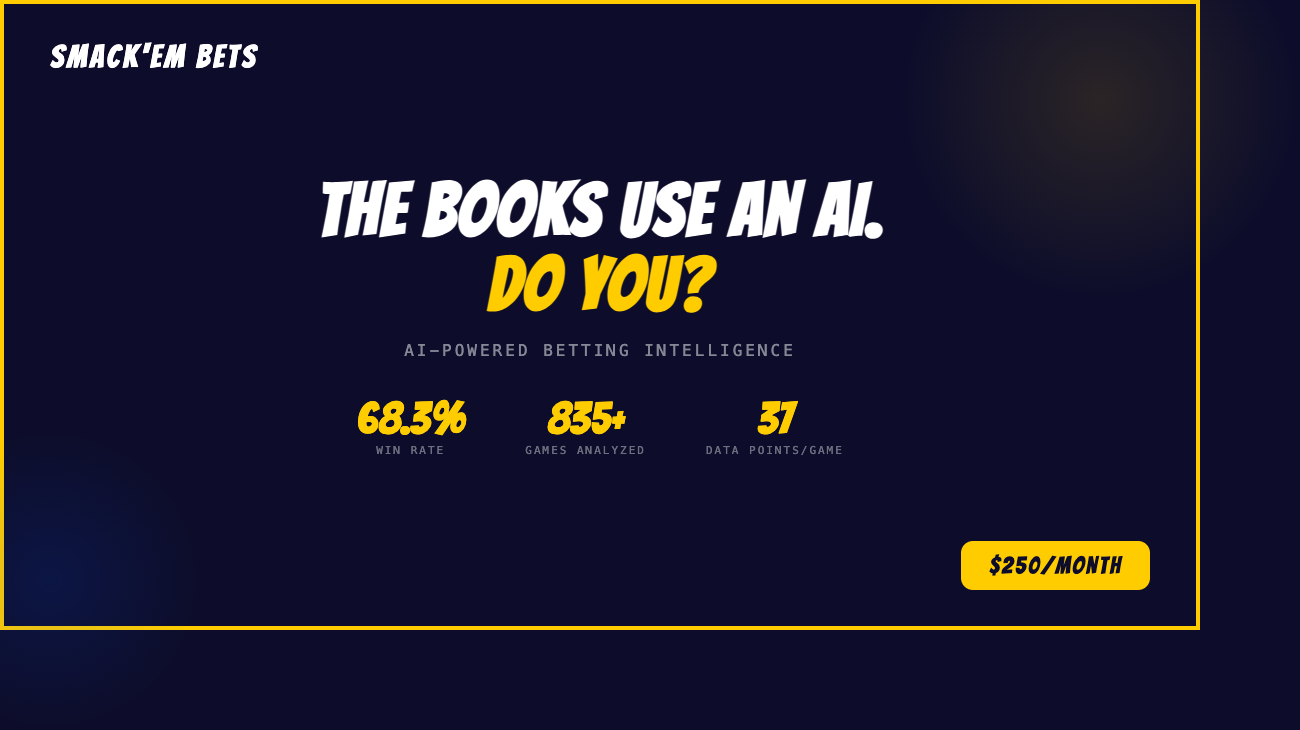
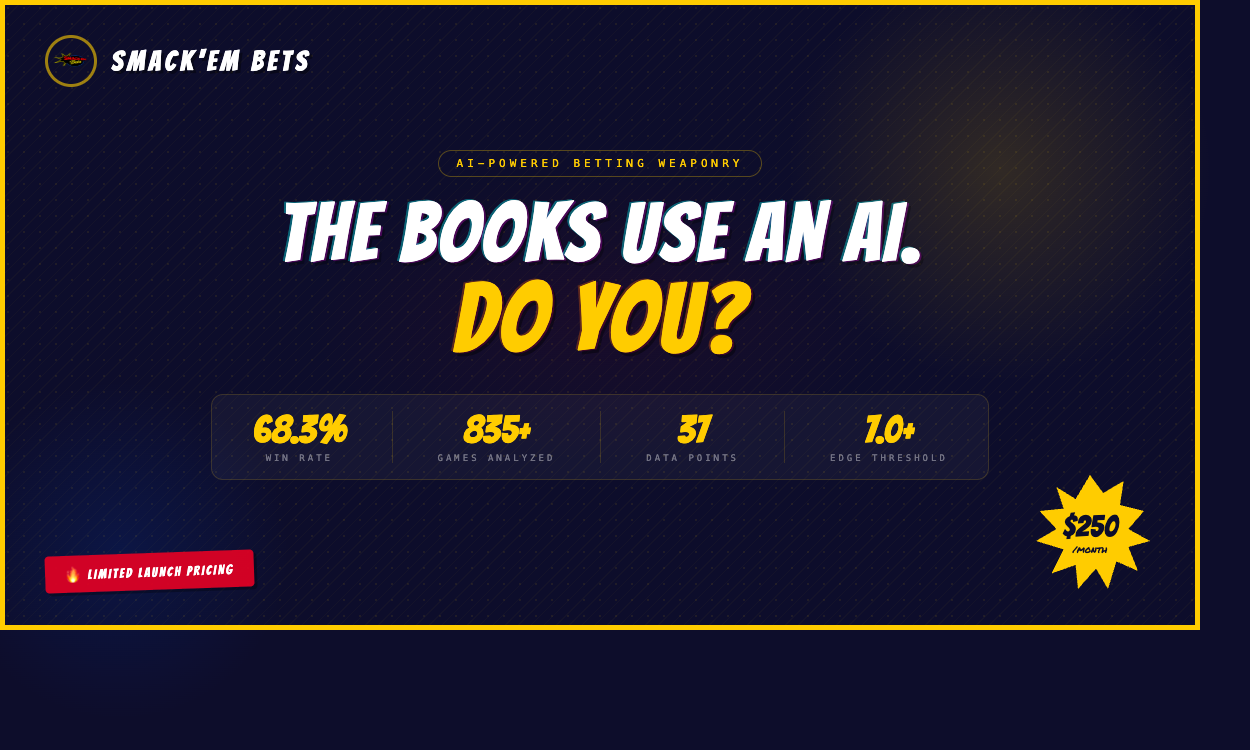
OG image v2: Spider-Verse aesthetic - Ben Day dots, speed lines, CMYK shadows, comic border, price burst

diff --git a/scripts/og.html b/scripts/og.html
@@ -2,44 +2,178 @@
 <html>
 <head>
 <style>
-@import url('https://fonts.googleapis.com/css2?family=Bangers&display=swap');
+@import url('https://fonts.googleapis.com/css2?family=Bangers&family=Permanent+Marker&display=swap');
 * { margin: 0; padding: 0; box-sizing: border-box; }
 body {
   width: 1200px; height: 630px;
   background: #0d0d2b;
-  display: flex; align-items: center; justify-content: center;
   font-family: 'Bangers', cursive;
   overflow: hidden; position: relative;
 }
-.border { position: absolute; inset: 0; border: 4px solid #ffcc00; }
-.logo { position: absolute; top: 40px; left: 50px; display: flex; align-items: center; gap: 15px; }
-.logo-text { font-size: 32px; color: white; letter-spacing: 3px; }
-.content { text-align: center; z-index: 1; }
-h1 { font-size: 74px; color: white; line-height: 1; letter-spacing: 2px; }
-h1 span { color: #ffcc00; }
-.subtitle { font-family: monospace; font-size: 16px; color: rgba(255,255,255,0.5); letter-spacing: 3px; margin-top: 20px; text-transform: uppercase; }
-.stats { display: flex; gap: 60px; justify-content: center; margin-top: 35px; }
-.stat-value { font-size: 44px; color: #ffcc00; }
-.stat-label { font-family: monospace; font-size: 11px; color: rgba(255,255,255,0.4); letter-spacing: 2px; margin-top: 2px; }
-.badge { position: absolute; bottom: 40px; right: 50px; background: #ffcc00; color: #0d0d2b; padding: 12px 28px; font-size: 24px; border-radius: 12px; letter-spacing: 2px; }
-.glow { position: absolute; top: -100px; right: -100px; width: 400px; height: 400px; border-radius: 50%; background: radial-gradient(circle, rgba(255,204,0,0.12), transparent 70%); }
-.glow2 { position: absolute; bottom: -100px; left: -100px; width: 300px; height: 300px; border-radius: 50%; background: radial-gradient(circle, rgba(0,85,255,0.12), transparent 70%); }
+/* Yellow comic border */
+.border { position: absolute; inset: 0; border: 5px solid #ffcc00; z-index: 10; pointer-events: none; }
+
+/* Ben Day dots background */
+.dots {
+  position: absolute; inset: 0;
+  background-image: radial-gradient(circle, rgba(255,204,0,0.08) 1.5px, transparent 1.5px);
+  background-size: 16px 16px;
+  z-index: 1;
+}
+
+/* Diagonal speed lines */
+.speed-lines {
+  position: absolute; inset: 0; z-index: 2; opacity: 0.06;
+  background: repeating-linear-gradient(
+    -45deg,
+    transparent,
+    transparent 8px,
+    rgba(255,204,0,0.5) 8px,
+    rgba(255,204,0,0.5) 9px
+  );
+}
+
+/* Glow effects */
+.glow-yellow {
+  position: absolute; top: -80px; right: -50px;
+  width: 500px; height: 500px; border-radius: 50%;
+  background: radial-gradient(circle, rgba(255,204,0,0.15), transparent 60%);
+  z-index: 2;
+}
+.glow-blue {
+  position: absolute; bottom: -120px; left: -80px;
+  width: 400px; height: 400px; border-radius: 50%;
+  background: radial-gradient(circle, rgba(0,85,255,0.12), transparent 60%);
+  z-index: 2;
+}
+.glow-red {
+  position: absolute; top: 50%; left: 50%; transform: translate(-50%, -50%);
+  width: 600px; height: 300px; border-radius: 50%;
+  background: radial-gradient(ellipse, rgba(230,0,35,0.06), transparent 70%);
+  z-index: 2;
+}
+
+/* Logo area */
+.logo {
+  position: absolute; top: 35px; left: 45px; z-index: 20;
+  display: flex; align-items: center; gap: 14px;
+}
+.logo img { width: 52px; height: 52px; border-radius: 50%; border: 3px solid rgba(255,204,0,0.6); }
+.logo-text { font-size: 28px; color: white; letter-spacing: 4px; text-shadow: 3px 3px 0 rgba(0,0,0,0.4); }
+
+/* Main content */
+.content {
+  position: absolute; inset: 0; z-index: 5;
+  display: flex; flex-direction: column; align-items: center; justify-content: center;
+  padding: 0 60px;
+}
+
+/* Headline */
+.headline {
+  font-size: 82px; color: white; line-height: 0.95;
+  letter-spacing: 3px; text-align: center;
+  text-shadow: 
+    -2px -1px 0 rgba(0,255,255,0.35),
+    2px 1px 0 rgba(255,0,255,0.25),
+    4px 4px 0 rgba(0,0,0,0.3);
+}
+.headline .yellow { 
+  color: #ffcc00; 
+  text-shadow: 
+    -2px -1px 0 rgba(255,100,0,0.3),
+    2px 1px 0 rgba(255,0,100,0.2),
+    4px 4px 0 rgba(0,0,0,0.4);
+  font-size: 96px;
+}
+
+/* Label pill */
+.label {
+  font-family: monospace; font-size: 11px; letter-spacing: 4px;
+  color: #ffcc00; text-transform: uppercase;
+  border: 1px solid rgba(255,204,0,0.3); border-radius: 20px;
+  padding: 6px 18px; margin-bottom: 18px;
+}
+
+/* Stats bar */
+.stats {
+  display: flex; gap: 45px; margin-top: 30px;
+  padding: 16px 40px; border-radius: 12px;
+  background: rgba(255,255,255,0.04);
+  border: 1px solid rgba(255,204,0,0.15);
+}
+.stat { text-align: center; }
+.stat-value { font-size: 38px; color: #ffcc00; line-height: 1; }
+.stat-label { font-family: monospace; font-size: 9px; color: rgba(255,255,255,0.4); letter-spacing: 3px; margin-top: 4px; text-transform: uppercase; }
+.stat-divider { width: 1px; background: rgba(255,204,0,0.15); align-self: stretch; }
+
+/* Price burst */
+.burst {
+  position: absolute; right: 50px; bottom: 35px; z-index: 20;
+  width: 120px; height: 120px;
+  background: #ffcc00;
+  clip-path: polygon(50% 0%, 61% 15%, 78% 5%, 75% 25%, 95% 30%, 82% 45%, 100% 55%, 82% 60%, 90% 80%, 72% 72%, 65% 95%, 55% 78%, 40% 95%, 38% 75%, 18% 82%, 28% 62%, 5% 55%, 22% 45%, 8% 30%, 28% 28%, 22% 10%, 38% 20%);
+  display: flex; align-items: center; justify-content: center; flex-direction: column;
+}
+.burst-price { font-size: 30px; color: #0d0d2b; line-height: 1; margin-top: -2px; }
+.burst-sub { font-family: 'Permanent Marker', cursive; font-size: 10px; color: #0d0d2b; }
+
+/* Impact star */
+.impact {
+  position: absolute; left: 45px; bottom: 40px; z-index: 20;
+  background: rgba(230,0,35,0.9); color: white;
+  font-size: 13px; letter-spacing: 2px;
+  padding: 8px 20px; border-radius: 4px;
+  transform: rotate(-2deg);
+  box-shadow: 3px 3px 0 rgba(0,0,0,0.3);
+}
+
+/* Corner accents */
+.corner-tl, .corner-br {
+  position: absolute; z-index: 8;
+  width: 80px; height: 80px;
+}
+.corner-tl {
+  top: 15px; right: 180px;
+  border-top: 3px solid rgba(255,204,0,0.15);
+  border-left: 3px solid rgba(255,204,0,0.15);
+}
 </style>
 </head>
 <body>
   <div class="border"></div>
-  <div class="glow"></div>
-  <div class="glow2"></div>
-  <div class="logo"><div class="logo-text">SMACK'EM BETS</div></div>
+  <div class="dots"></div>
+  <div class="speed-lines"></div>
+  <div class="glow-yellow"></div>
+  <div class="glow-blue"></div>
+  <div class="glow-red"></div>
+
+  <div class="logo">
+    <img src="../public/logo.png" alt="">
+    <span class="logo-text">SMACK'EM BETS</span>
+  </div>
+
   <div class="content">
-    <h1>THE BOOKS USE AN AI.<br><span>DO YOU?</span></h1>
-    <div class="subtitle">AI-Powered Betting Intelligence</div>
+    <div class="label">AI-Powered Betting Weaponry</div>
+    <div class="headline" data-text="THE BOOKS USE AN AI. DO YOU?">
+      THE BOOKS USE AN AI.<br>
+      <span class="yellow">DO YOU?</span>
+    </div>
     <div class="stats">
-      <div class="stat"><div class="stat-value">68.3%</div><div class="stat-label">WIN RATE</div></div>
-      <div class="stat"><div class="stat-value">835+</div><div class="stat-label">GAMES ANALYZED</div></div>
-      <div class="stat"><div class="stat-value">37</div><div class="stat-label">DATA POINTS/GAME</div></div>
+      <div class="stat"><div class="stat-value">68.3%</div><div class="stat-label">Win Rate</div></div>
+      <div class="stat-divider"></div>
+      <div class="stat"><div class="stat-value">835+</div><div class="stat-label">Games Analyzed</div></div>
+      <div class="stat-divider"></div>
+      <div class="stat"><div class="stat-value">37</div><div class="stat-label">Data Points</div></div>
+      <div class="stat-divider"></div>
+      <div class="stat"><div class="stat-value">7.0+</div><div class="stat-label">Edge Threshold</div></div>
     </div>
   </div>
-  <div class="badge">$250/MONTH</div>
+
+  <div class="burst">
+    <div class="burst-price">$250</div>
+    <div class="burst-sub">/month</div>
+  </div>
+
+  <div class="impact">🔥 LIMITED LAUNCH PRICING</div>
 </body>
 </html>
